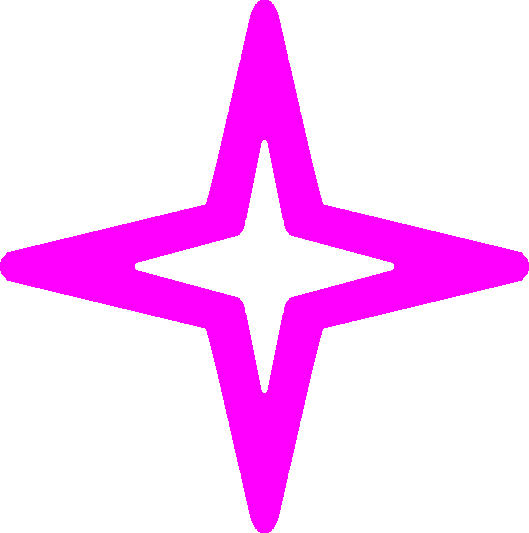
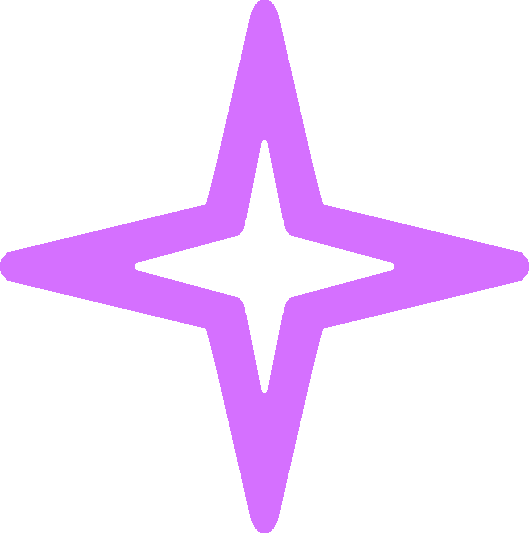
Changed Magenta & Misc Fixes
Changed magenta items to a more accurate shade.

Other:
Made FD bars slightly longer
FD Center square stroke width reduced
Active route line on ND slightly wider

Changed region(s): [[0.0, 0.0, 1.0, 1.0]]

diff --git a/html_ui/Pages/VCockpit/Instruments/Airliners/B747_8/MFD/Salty_NDCompass.js b/html_ui/Pages/VCockpit/Instruments/Airliners/B747_8/MFD/Salty_NDCompass.js
@@ -144,7 +144,7 @@ class Jet_MFD_NDCompass extends Jet_NDCompass {
                     {
                         this.courseColor = "";
                         if (this.navigationMode == Jet_NDCompass_Navigation.ILS) {
-                            this.courseColor = "#ff00ff";
+                            this.courseColor = "#D570FF";
                         }
                         else if (this.navigationMode == Jet_NDCompass_Navigation.VOR) {
                             this.courseColor = "#00ffff";
@@ -199,13 +199,13 @@ class Jet_MFD_NDCompass extends Jet_NDCompass {
                 this.selectedHeadingGroup = document.createElementNS(Avionics.SVG.NS, "g");
                 this.selectedHeadingGroup.setAttribute("id", "selectedHeadingGroup");
                 {
-                    this.selectedHeadingLine = Avionics.SVG.computeDashLine(50, 70, (circleRadius - 5), 15, 3, "#ff00e0");
+                    this.selectedHeadingLine = Avionics.SVG.computeDashLine(50, 70, (circleRadius - 5), 15, 3, "#D570FF");
                     this.selectedHeadingLine.setAttribute("id", "selectedHeadingLine");
                     this.selectedHeadingGroup.appendChild(this.selectedHeadingLine);
                     this.selectedHeadingBug = document.createElementNS(Avionics.SVG.NS, "path");
                     this.selectedHeadingBug.setAttribute("id", "selectedHeadingBug");
                     this.selectedHeadingBug.setAttribute("d", "M50 " + (50 + circleRadius) + " h 22 v 22 h -7 l -15 -22 l -15 22 h -7 v -22 z");
-                    this.selectedHeadingBug.setAttribute("stroke", "#ff00e0");
+                    this.selectedHeadingBug.setAttribute("stroke", "#D570FF");
                     this.selectedHeadingBug.setAttribute("fill", "none");
                     this.selectedHeadingBug.setAttribute("stroke-width", "2");
                     this.selectedHeadingGroup.appendChild(this.selectedHeadingBug);
@@ -214,13 +214,13 @@ class Jet_MFD_NDCompass extends Jet_NDCompass {
                 this.selectedTrackGroup = document.createElementNS(Avionics.SVG.NS, "g");
                 this.selectedTrackGroup.setAttribute("id", "selectedTrackGroup");
                 {
-                    this.selectedTrackLine = Avionics.SVG.computeDashLine(50, 70, (circleRadius - 5), 15, 3, "#ff00e0");
+                    this.selectedTrackLine = Avionics.SVG.computeDashLine(50, 70, (circleRadius - 5), 15, 3, "#D570FF");
                     this.selectedTrackLine.setAttribute("id", "selectedTrackLine");
                     this.selectedTrackGroup.appendChild(this.selectedTrackLine);
                     this.selectedTrackBug = document.createElementNS(Avionics.SVG.NS, "path");
                     this.selectedTrackBug.setAttribute("id", "selectedTrackBug");
                     this.selectedTrackBug.setAttribute("d", "M50 " + (50 + circleRadius) + " h -30 v -15 l 30 -15 l 30 15 v 15 z");
-                    this.selectedTrackBug.setAttribute("stroke", "#ff00e0");
+                    this.selectedTrackBug.setAttribute("stroke", "#D570FF");
                     this.selectedTrackBug.setAttribute("stroke-width", "2");
                     this.selectedTrackGroup.appendChild(this.selectedTrackBug);
                 }
@@ -552,7 +552,7 @@ class Jet_MFD_NDCompass extends Jet_NDCompass {
                 {
                     this.courseColor = "";
                     if (this.navigationMode == Jet_NDCompass_Navigation.ILS) {
-                        this.courseColor = "#ff00ff";
+                        this.courseColor = "#D570FF";
                     }
                     else if (this.navigationMode == Jet_NDCompass_Navigation.VOR) {
                         this.courseColor = "#00ffff";
@@ -616,13 +616,13 @@ class Jet_MFD_NDCompass extends Jet_NDCompass {
             this.selectedHeadingGroup = document.createElementNS(Avionics.SVG.NS, "g");
             this.selectedHeadingGroup.setAttribute("id", "selectedHeadingGroup");
             {
-                this.selectedHeadingLine = Avionics.SVG.computeDashLine(500, 450, -(circleRadius - 50), 15, 3, "#ff00e0");
+                this.selectedHeadingLine = Avionics.SVG.computeDashLine(500, 450, -(circleRadius - 50), 15, 3, "#D570FF");
                 this.selectedHeadingLine.setAttribute("id", "selectedHeadingLine");
                 this.selectedHeadingGroup.appendChild(this.selectedHeadingLine);
                 this.selectedHeadingBug = document.createElementNS(Avionics.SVG.NS, "path");
                 this.selectedHeadingBug.setAttribute("id", "selectedHeadingBug");
                 this.selectedHeadingBug.setAttribute("d", "M500 " + (500 - circleRadius) + " h 22 v -22 h -7 l -15 22 l -15 -22 h -7 v 22 z");
-                this.selectedHeadingBug.setAttribute("stroke", "magenta");
+                this.selectedHeadingBug.setAttribute("stroke", "#D570FF");
                 this.selectedHeadingBug.setAttribute("fill", "none");
                 this.selectedHeadingGroup.appendChild(this.selectedHeadingBug);
             }
@@ -645,13 +645,13 @@ class Jet_MFD_NDCompass extends Jet_NDCompass {
                 this.selectedTrackGroup = document.createElementNS(Avionics.SVG.NS, "g");
                 this.selectedTrackGroup.setAttribute("id", "selectedTrackGroup");
                 {
-                    this.selectedTrackLine = Avionics.SVG.computeDashLine(500, 450, -(circleRadius - 50), 15, 3, "#ff00e0");
+                    this.selectedTrackLine = Avionics.SVG.computeDashLine(500, 450, -(circleRadius - 50), 15, 3, "#D570FF");
                     this.selectedTrackLine.setAttribute("id", "selectedTrackLine");
                     this.selectedTrackGroup.appendChild(this.selectedTrackLine);
                     this.selectedTrackBug = document.createElementNS(Avionics.SVG.NS, "path");
                     this.selectedTrackBug.setAttribute("id", "selectedTrackBug");
                     this.selectedTrackBug.setAttribute("d", "M500 " + (500 - circleRadius) + " h -30 v 15 l 30 15 l 30 -15 v -15 z");
-                    this.selectedTrackBug.setAttribute("stroke", "#ff00e0");
+                    this.selectedTrackBug.setAttribute("stroke", "#D570FF");
                     this.selectedTrackBug.setAttribute("stroke-width", "2");
                     this.selectedTrackGroup.appendChild(this.selectedTrackBug);
                 }
@@ -697,7 +697,7 @@ class Jet_MFD_NDCompass extends Jet_NDCompass {
             this.glideSlopeCursor.setAttribute("id", "GlideSlopeCursor");
             this.glideSlopeCursor.setAttribute("transform", "translate(" + 950 + " " + 500 + ")");
             this.glideSlopeCursor.setAttribute("d", "M-15 0 L0 -20 L15 0 M-15 0 L0 20 L15 0");
-            this.glideSlopeCursor.setAttribute("stroke", "#ff00ff");
+            this.glideSlopeCursor.setAttribute("stroke", "#D570FF");
             this.glideSlopeCursor.setAttribute("stroke-width", "2");
             this.glideSlopeCursor.setAttribute("fill", "none");
             this.glideSlopeGroup.appendChild(this.glideSlopeCursor);

diff --git a/html_ui/Pages/VCockpit/Instruments/Airliners/B747_8/PFD/AltimeterIndicator.js b/html_ui/Pages/VCockpit/Instruments/Airliners/B747_8/PFD/AltimeterIndicator.js
@@ -95,7 +95,7 @@ class Jet_PFD_AltimeterIndicator extends HTMLElement {
         this.targetAltitudeTextSVG1 = document.createElementNS(Avionics.SVG.NS, "text");
         this.targetAltitudeTextSVG1.setAttribute("x", "115");
         this.targetAltitudeTextSVG1.setAttribute("y", (posY + 10 + sideTextHeight * 0.5).toString());
-        this.targetAltitudeTextSVG1.setAttribute("fill", "magenta");
+        this.targetAltitudeTextSVG1.setAttribute("fill", "#D570FF");
         this.targetAltitudeTextSVG1.setAttribute("font-size", (this.fontSize * 1.6).toString());
         this.targetAltitudeTextSVG1.setAttribute("font-family", "BoeingEICAS");
         this.targetAltitudeTextSVG1.setAttribute("text-anchor", "end");
@@ -106,7 +106,7 @@ class Jet_PFD_AltimeterIndicator extends HTMLElement {
         this.targetAltitudeTextSVG2.setAttribute("x", "117");
         this.targetAltitudeTextSVG2.setAttribute("y", (posY + 10 + sideTextHeight * 0.5).toString());
         this.targetAltitudeTextSVG2.setAttribute("width", width.toString());
-        this.targetAltitudeTextSVG2.setAttribute("fill", "magenta");
+        this.targetAltitudeTextSVG2.setAttribute("fill", "#D570FF");
         this.targetAltitudeTextSVG2.setAttribute("font-size", (this.fontSize * 1.29).toString());
         this.targetAltitudeTextSVG2.setAttribute("font-family", "BoeingEICAS");
         this.targetAltitudeTextSVG2.setAttribute("text-anchor", "start");
@@ -290,7 +290,7 @@ class Jet_PFD_AltimeterIndicator extends HTMLElement {
                 if (!this.targetAltitudeIndicatorSVGShape)
                     this.targetAltitudeIndicatorSVGShape = document.createElementNS(Avionics.SVG.NS, "path");
                 this.targetAltitudeIndicatorSVGShape.setAttribute("fill", "none");
-                this.targetAltitudeIndicatorSVGShape.setAttribute("stroke", "magenta");
+                this.targetAltitudeIndicatorSVGShape.setAttribute("stroke", "#D570FF");
                 this.targetAltitudeIndicatorSVGShape.setAttribute("stroke-width", "3");
                 this.targetAltitudeIndicatorSVGShape.setAttribute("d", "M 10 10 L 50 10 L 50 90 L 10 90 L 10 60 L 18 50 L 10 40 Z");
                 this.targetAltitudeIndicatorSVG.appendChild(this.targetAltitudeIndicatorSVGShape);
@@ -346,7 +346,7 @@ class Jet_PFD_AltimeterIndicator extends HTMLElement {
                 this.mtrsSelectedSVGText = document.createElementNS(Avionics.SVG.NS, "text");
                 this.mtrsSelectedSVGText.setAttribute("x", "158");
                 this.mtrsSelectedSVGText.setAttribute("y", (sideTextHeight * 0.5).toString());
-                this.mtrsSelectedSVGText.setAttribute("fill", "magenta");
+                this.mtrsSelectedSVGText.setAttribute("fill", "#D570FF");
                 this.mtrsSelectedSVGText.setAttribute("font-size", (this.fontSize * 1.2).toString());
                 this.mtrsSelectedSVGText.setAttribute("font-family", "BoeingEICAS");
                 this.mtrsSelectedSVGText.setAttribute("text-anchor", "end");
@@ -692,7 +692,7 @@ class Jet_PFD_AltimeterIndicator extends HTMLElement {
                     this.targetAltitudeText.style.top = "720px";
                     this.targetAltitudeText.style.left = "115px";
                     this.targetAltitudeText.style.display = "block";
-                    this.targetAltitudeText.style.color = (APMode == AutopilotMode.SELECTED) ? "cyan" : "magenta";
+                    this.targetAltitudeText.style.color = (APMode == AutopilotMode.SELECTED) ? "cyan" : "#D570FF";
                     this.targetAltitudeIndicatorSVG.setAttribute("visibility", "hidden");
                 }
                 else if (deltaAltitude > 650) {
@@ -700,7 +700,7 @@ class Jet_PFD_AltimeterIndicator extends HTMLElement {
                     this.targetAltitudeText.style.top = "-20px";
                     this.targetAltitudeText.style.left = "115px";
                     this.targetAltitudeText.style.display = "block";
-                    this.targetAltitudeText.style.color = (APMode == AutopilotMode.SELECTED) ? "cyan" : "magenta";
+                    this.targetAltitudeText.style.color = (APMode == AutopilotMode.SELECTED) ? "cyan" : "#D570FF";
                     this.targetAltitudeIndicatorSVG.setAttribute("visibility", "hidden");
                 }
                 else {
@@ -709,13 +709,13 @@ class Jet_PFD_AltimeterIndicator extends HTMLElement {
                     offsetY -= 51;
                     this.targetAltitudeIndicatorSVG.setAttribute("y", offsetY.toString());
                     this.targetAltitudeIndicatorSVG.setAttribute("visibility", "visible");
-                    this.targetAltitudeIndicatorSVGShape.setAttribute("stroke", (APMode == AutopilotMode.SELECTED) ? "cyan" : "magenta");
+                    this.targetAltitudeIndicatorSVGShape.setAttribute("stroke", (APMode == AutopilotMode.SELECTED) ? "cyan" : "#D570FF");
                     if (this.targetAltitudeIndicatorSVGText) {
                         if (targetAltitude >= 10)
                             this.targetAltitudeIndicatorSVGText.textContent = targetAltitude.toFixed(0);
                         else
                             this.targetAltitudeIndicatorSVGText.textContent = "100";
-                        this.targetAltitudeIndicatorSVGText.setAttribute("fill", (APMode == AutopilotMode.SELECTED) ? "cyan" : "magenta");
+                        this.targetAltitudeIndicatorSVGText.setAttribute("fill", (APMode == AutopilotMode.SELECTED) ? "cyan" : "#D570FF");
                     }
                 }
                 hudAltitude = targetAltitude;

diff --git a/html_ui/Pages/VCockpit/Instruments/Airliners/B747_8/PFD/HSIndicator.js b/html_ui/Pages/VCockpit/Instruments/Airliners/B747_8/PFD/HSIndicator.js
@@ -109,13 +109,13 @@ class Jet_PFD_HSIndicator extends HTMLElement {
             this.selectedHeadingGroup.setAttribute("id", "selectedHeadingGroup");
             this.rootSVG.appendChild(this.selectedHeadingGroup);
             {
-                this.selectedHeadingLine = Avionics.SVG.computeDashLine(this.rotatingCompassX, this.rotatingCompassY, (-circleRadius), 15, 1, "#ff00e0");
+                this.selectedHeadingLine = Avionics.SVG.computeDashLine(this.rotatingCompassX, this.rotatingCompassY, (-circleRadius), 15, 1, "#D570FF");
                 this.selectedHeadingLine.setAttribute("id", "selectedHeadingLine");
                 this.selectedHeadingGroup.appendChild(this.selectedHeadingLine);
                 this.selectedHeadingBug = document.createElementNS(Avionics.SVG.NS, "path");
                 this.selectedHeadingBug.setAttribute("id", "Heading");
                 this.selectedHeadingBug.setAttribute("fill", "transparent");
-                this.selectedHeadingBug.setAttribute("stroke", "magenta");
+                this.selectedHeadingBug.setAttribute("stroke", "#D570FF");
                 this.selectedHeadingBug.setAttribute("stroke-width", "0.75");
                 this.selectedHeadingBug.setAttribute("d", "M " + this.rotatingCompassX + " " + (this.rotatingCompassY - circleRadius) + " l-6 0 l0 -5 l3 0 l3 5 l3 -5 l3 0 l0 5 Z");
                 this.selectedHeadingGroup.appendChild(this.selectedHeadingBug);
@@ -137,7 +137,7 @@ class Jet_PFD_HSIndicator extends HTMLElement {
                 this.selectedHeadingText.textContent = "135H";
                 this.selectedHeadingText.setAttribute("x", (this.rotatingCompassX - circleRadius * 0.3).toString());
                 this.selectedHeadingText.setAttribute("y", (this.rotatingCompassY - circleRadius * 0.725).toString());
-                this.selectedHeadingText.setAttribute("fill", "magenta");
+                this.selectedHeadingText.setAttribute("fill", "#D570FF");
                 this.selectedHeadingText.setAttribute("font-size", (this.fontSize * 0.3).toString());
                 this.selectedHeadingText.setAttribute("font-family", "BoeingEICAS");
                 this.selectedHeadingText.setAttribute("text-anchor", "start");

diff --git a/html_ui/Pages/VCockpit/Instruments/Airliners/B747_8/PFD/AttitudeIndicator.js b/html_ui/Pages/VCockpit/Instruments/Airliners/B747_8/PFD/AttitudeIndicator.js
@@ -361,7 +361,7 @@ class Jet_PFD_AttitudeIndicator extends HTMLElement {
                 centerRect.setAttribute("height", "8");
                 centerRect.setAttribute("width", "8");
                 centerRect.setAttribute("stroke", "white");
-                centerRect.setAttribute("stroke-width", "3");
+                centerRect.setAttribute("stroke-width", "2");
                 centerRect.setAttribute("fill", "transparent");
                 centerRectGroup.appendChild(centerRect);
             }
@@ -622,7 +622,7 @@ var Jet_PFD_FlightDirector;
                 this.pitchLine.setAttribute("transform", "translate(0, " + lineY + ")");
             }
         }
-        getLineLength() { return 140; }
+        getLineLength() { return 160; }
         getStrokeWidth() { return "4"; }
         getFDBankLimit() { return 30; }
         getFDBankDisplayLimit() { return 75; }
@@ -630,7 +630,7 @@ var Jet_PFD_FlightDirector;
     class CommandBarsDisplay_Airbus extends CommandBarsDisplay {
     }
     class CommandBarsDisplay_B747 extends CommandBarsDisplay {
-        getColour() { return "magenta"; }
+        getColour() { return "#D570FF"; }
         getFDBankLimit() { return 30; }
         getFDBankDisplayLimit() { return 50; }
     }

diff --git a/html_ui/Pages/VCockpit/Instruments/Airliners/B747_8/PFD/AirspeedIndicator.js b/html_ui/Pages/VCockpit/Instruments/Airliners/B747_8/PFD/AirspeedIndicator.js
@@ -141,7 +141,7 @@ class Jet_PFD_AirspeedIndicator extends HTMLElement {
         this.targetSpeedSVG.textContent = ".000";
         this.targetSpeedSVG.setAttribute("x", (posX + 10).toString());
         this.targetSpeedSVG.setAttribute("y", (posY + 10 + sideTextHeight * 0.5).toString());
-        this.targetSpeedSVG.setAttribute("fill", "magenta");
+        this.targetSpeedSVG.setAttribute("fill", "#D570FF");
         this.targetSpeedSVG.setAttribute("font-size", (this.fontSize * 1.6).toString());
         this.targetSpeedSVG.setAttribute("font-family", "BoeingEICAS");
         this.targetSpeedSVG.style.letterSpacing = "1px";
@@ -410,7 +410,7 @@ class Jet_PFD_AirspeedIndicator extends HTMLElement {
             {
                 let shape = document.createElementNS(Avionics.SVG.NS, "path");
                 shape.setAttribute("fill", "none");
-                shape.setAttribute("stroke", "magenta");
+                shape.setAttribute("stroke", "#D570FF");
                 shape.setAttribute("stroke-width", "3");
                 shape.setAttribute("d", "M 0 22 L 25 10 L 52 10 L 52 34 L 25 34 Z");
                 this.targetSpeedPointerSVG.appendChild(shape);

diff --git a/html_ui/Pages/VCockpit/Instruments/Airliners/B747_8/MFD/B747_8_MFD.html b/html_ui/Pages/VCockpit/Instruments/Airliners/B747_8/MFD/B747_8_MFD.html
@@ -55,7 +55,7 @@
                         <svg>
                             <g id="WP_Data">
                             <text id="WP_Track_Value" class="Units" x="0%" y="0%" alignment-baseline="baseline" style="fill:#000000"></text>
-                            <text id="WP_Name" class="Large" x="67.5%" y="20%" alignment-baseline="baseline" style="fill:#ff00ff;text-anchor:start"></text>
+                            <text id="WP_Name" class="Large" x="67.5%" y="20%" alignment-baseline="baseline" style="fill:#D570FF;text-anchor:start"></text>
                             <text id="WP_ZuluTime" class="Value" x="98.75%" y="43%" alignment-baseline="baseline" style="text-align:left">------</text>
                             <text id="WP_Distance_Value" class="Value" x="85.5%" y="66%" alignment-baseline="baseline" style="text-align:left">-.-</text>
                             <text id="WP_Distance_Units" class="Units" x="92.5%" y="66%" alignment-baseline="baseline" style="fill:#ffffff">NM</text>

diff --git a/html_ui/Pages/VCockpit/Instruments/Airliners/B747_8/MFD/Svg/SvgWaypointElement.js b/html_ui/Pages/VCockpit/Instruments/Airliners/B747_8/MFD/Svg/SvgWaypointElement.js
@@ -176,7 +176,7 @@ class SvgWaypointElement extends SvgMapElement {
             }
         }
         else {
-            context.fillStyle = "magenta";
+            context.fillStyle = "#D570FF";
         }
         context.font = fontSize + "px " + map.config.waypointLabelFontFamily;
         context.fillText(text, map.config.waypointLabelBackgroundPaddingLeft, this._textHeight + map.config.waypointLabelBackgroundPaddingTop);

diff --git a/html_ui/Pages/VCockpit/Instruments/Airliners/B747_8/MFD/B747_8_MFD.css b/html_ui/Pages/VCockpit/Instruments/Airliners/B747_8/MFD/B747_8_MFD.css
@@ -167,7 +167,7 @@ b747-8-mfd-element {
         fill: cyan; }
       b747-8-mfd-element #Mainframe #TopBox text.ValueIls {
         font-size: 42px;
-        fill: #ff00ff; }
+        fill: #D570FF; }
       b747-8-mfd-element #Mainframe #TopBox text.Small {
         font-size: 32px;
         fill: white; }

diff --git a/html_ui/Pages/VCockpit/Instruments/Airliners/B747_8/EICAS/Pages/B747_8_UpperEICAS.css b/html_ui/Pages/VCockpit/Instruments/Airliners/B747_8/EICAS/Pages/B747_8_UpperEICAS.css
@@ -12,7 +12,7 @@
   --eicasGreen: lime;
   --eicasOrange: #db7200;
   --eicasRed: red;
-  --eicasMagenta: magenta; }
+  --eicasMagenta: #D570FF; }
   :root div {
     font-family: "BoeingEICASSpecialDecimal" !important; }
   :root text {

diff --git a/html_ui/Pages/VCockpit/Instruments/Airliners/B747_8/EICAS/Pages/B747_8_LowerEICAS_Engine.css b/html_ui/Pages/VCockpit/Instruments/Airliners/B747_8/EICAS/Pages/B747_8_LowerEICAS_Engine.css
@@ -6,7 +6,7 @@
   --eicasGreen: green;
   --eicasOrange: #db7200;
   --eicasRed: red;
-  --eicasMagenta: magenta; }
+  --eicasMagenta: #D570FF; }
   :root div {
     font-family: BoeingEICAS !important; }
   :root text {

diff --git a/html_ui/Pages/VCockpit/Instruments/Airliners/B747_8/EICAS/Pages/B747_8_LowerEICAS_DRS.css b/html_ui/Pages/VCockpit/Instruments/Airliners/B747_8/EICAS/Pages/B747_8_LowerEICAS_DRS.css
@@ -6,7 +6,7 @@
     --eicasGreen: green;
     --eicasOrange: #db7200;
     --eicasRed: red;
-    --eicasMagenta: magenta; }
+    --eicasMagenta: #D570FF; }
     :root text {
       font-family: "BoeingEICAS"; }
 

diff --git a/html_ui/Pages/VCockpit/Instruments/Airliners/B747_8/EICAS/Pages/B747_8_LowerEICAS_ELEC.css b/html_ui/Pages/VCockpit/Instruments/Airliners/B747_8/EICAS/Pages/B747_8_LowerEICAS_ELEC.css
@@ -6,7 +6,7 @@
     --eicasGreen: green;
     --eicasOrange: #db7200;
     --eicasRed: red;
-    --eicasMagenta: magenta; }
+    --eicasMagenta: #D570FF; }
     :root text {
       font-family: "BoeingEICAS"; }
 
